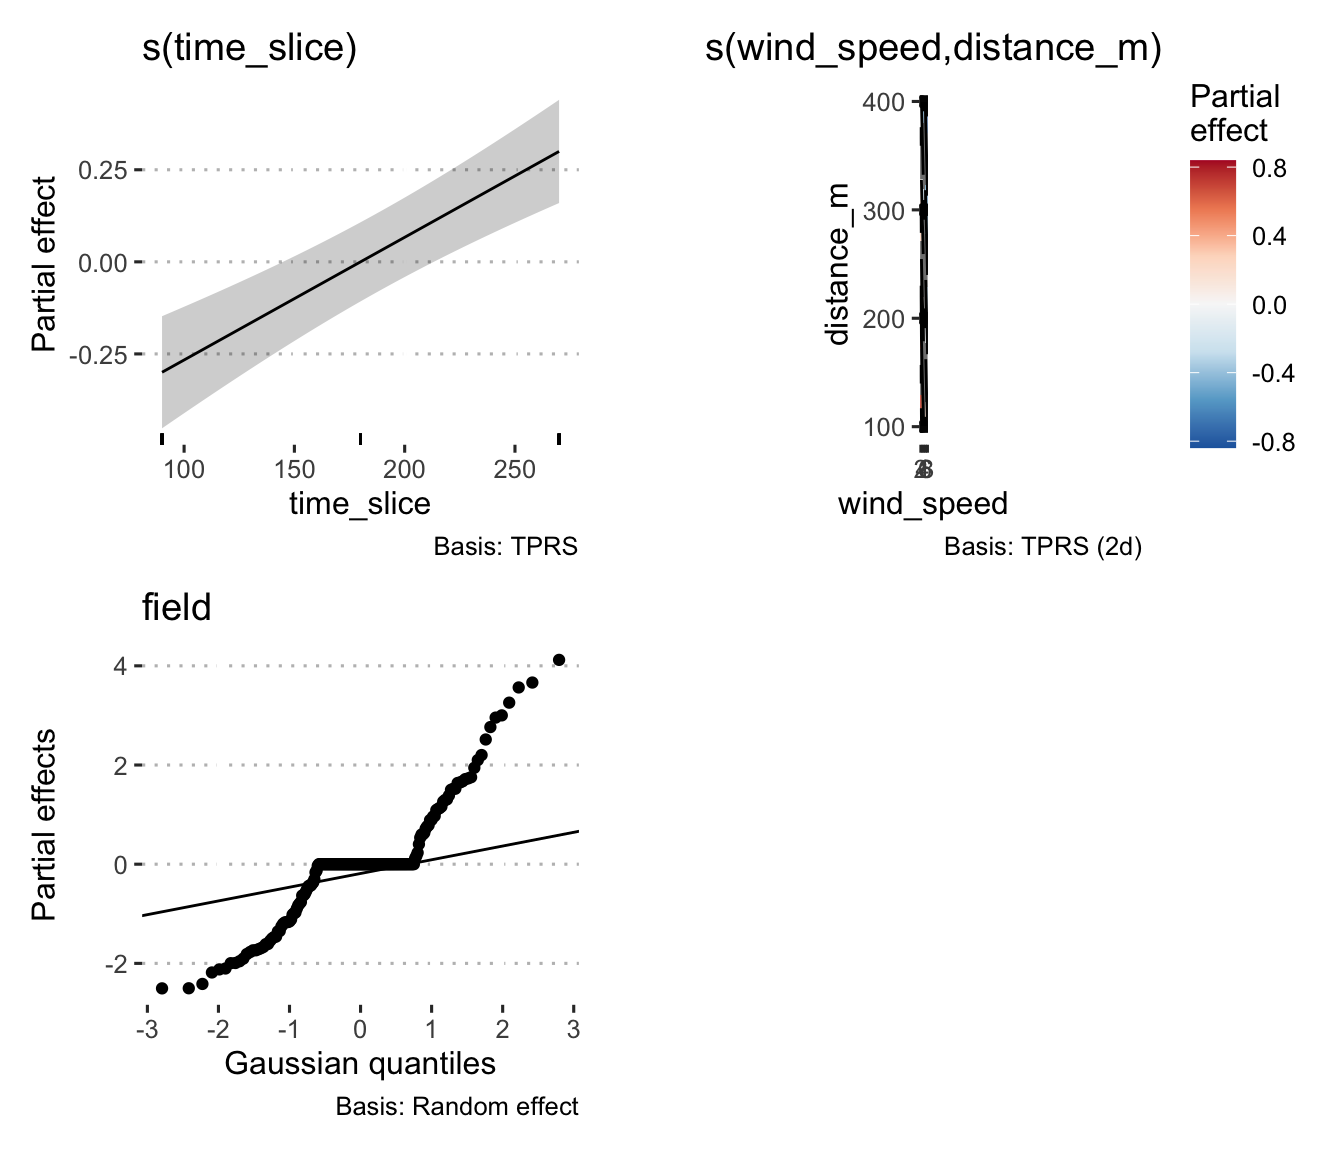
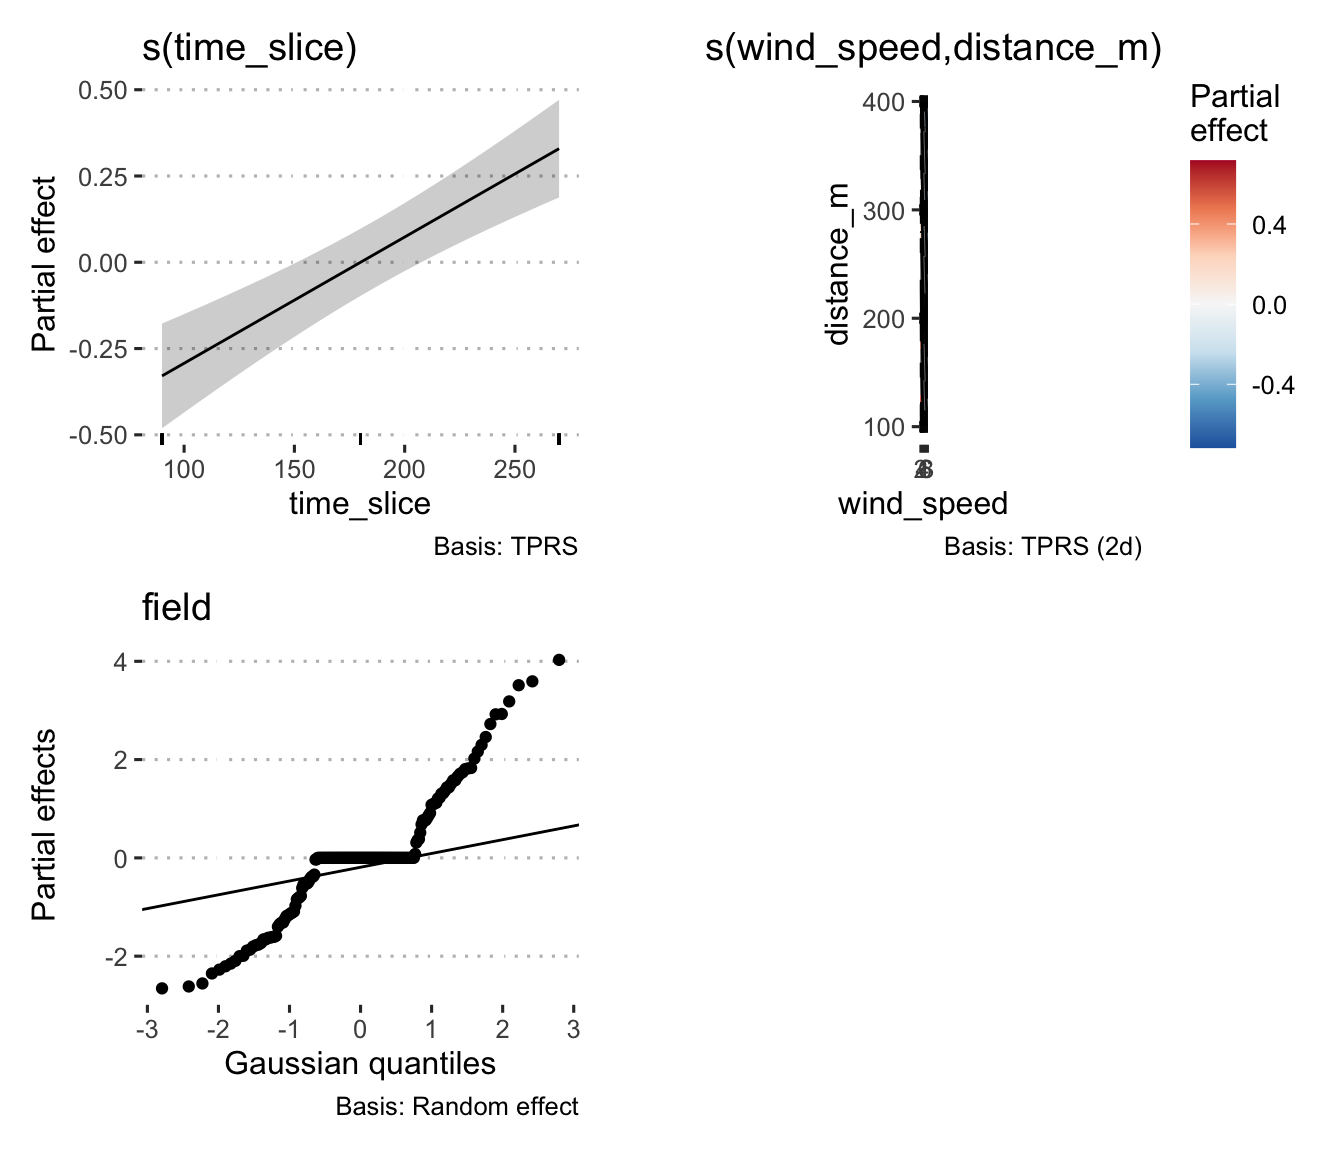
Refit model using count and nb()

diff --git a/gam_model.html b/gam_model.html
@@ -438,9 +438,10 @@ recorded in spore type proportion at 100 m to 400 m downwind (P =
          degree_dif,
          wind_degrees,
          wind_speed,
-         distance_m) %&gt;%
+         distance_m,
+         n_spore) %&gt;%
   print(n = Inf)</code></pre>
-<pre><code>## # A tibble: 24 × 7
+<pre><code>## # A tibble: 24 × 8
 ## # Groups:   field [6]
 ##    field trap_coord trap_degrees degree_dif wind_degrees wind_speed distance_m
 ##    &lt;fct&gt; &lt;chr&gt;             &lt;dbl&gt;      &lt;dbl&gt;        &lt;dbl&gt;      &lt;dbl&gt;      &lt;dbl&gt;
@@ -467,93 +468,110 @@ recorded in spore type proportion at 100 m to 400 m downwind (P =
 ## 21 6     N                     0     -2.16          2.16       7.57        100
 ## 22 6     E                    90     87.8           2.16       7.57        100
 ## 23 6     W                   270    268.            2.16       7.57        100
-## 24 6     S                   180    178.            2.16       7.57        100</code></pre>
+## 24 6     S                   180    178.            2.16       7.57        100
+## # ℹ 1 more variable: n_spore &lt;dbl&gt;</code></pre>
 <p>Based on the use of AIC to evaluate model fit to the data, the
-following model best fit the data with the smoothed time slice
-variables, <code>time_slice</code>; the wind direction in relation to
-the traps’ placement around the field in terms of degrees, <em>i.e.</em>
-0–360˚, <code>degree_dif</code>; the traps’ distance from the harvest
-field in meters, <code>distance_m</code>; and the field and traps
-themselves as a smoothed term random effect, <code>field</code> and
-<code>xy</code>.</p>
-<pre class="r"><code>mod_dat$xy &lt;- as.factor(paste(mod_dat$x, mod_dat$y))
-
-# create predictor degree diff as per Ben Bolker for circular predictors,
-# https://fediscience.org/@bbolker/110856805100981742, see Appendix for screenshot
-mod_dat$degree_dif_sin &lt;- sin(2 * pi * mod_dat$degree_dif / 360)
+following GAM best fit the data with the smoothed time slice variables,
+s(<code>time_slice</code>); a smoothed term for both wind-speed and the
+traps’ distance from the harvest field in meters,
+s(<code>wind_speed, distance_m</code>); and the field and traps
+themselves as a smoothed term random effect, s(<code>field</code>,
+<code>xy</code>) using a negative binomial family.</p>
+<pre class="r"><code># create a factor for the trap locations in Cartesian coords to be used as a random effect
+mod_dat$xy &lt;- as.factor(paste(mod_dat$x, mod_dat$y))
 
 m1 &lt;- gam(
-  spore_cm2 ~ s(time_slice, k = 3) +
+  n_spore ~ s(time_slice, k = 3) +
     s(wind_speed, distance_m, k = 72) +
     s(field, xy, bs = &quot;re&quot;),
   data = mod_dat,
   select = TRUE,
   method = &quot;REML&quot;,
-  family = &quot;tw&quot;
+  family = nb()
 )</code></pre>
 </div>
 <div id="inspect-model-m1" class="section level3">
 <h3>Inspect Model m1</h3>
 <pre class="r"><code>m1</code></pre>
 <pre><code>## 
-## Family: Tweedie(p=1.499) 
+## Family: Negative Binomial(2.483) 
 ## Link function: log 
 ## 
 ## Formula:
-## spore_cm2 ~ s(time_slice, k = 3) + s(wind_speed, distance_m, 
-##     k = 72) + s(field, xy, bs = &quot;re&quot;)
+## n_spore ~ s(time_slice, k = 3) + s(wind_speed, distance_m, k = 72) + 
+##     s(field, xy, bs = &quot;re&quot;)
 ## 
 ## Estimated degrees of freedom:
-##  0.972  1.544 85.331  total = 88.85 
+##  0.974  1.468 87.081  total = 90.52 
 ## 
-## REML score: 695.8308</code></pre>
+## REML score: 1073.899</code></pre>
 <div id="check-model-m1" class="section level4">
 <h4>Check model m1</h4>
 <pre class="r"><code>gam.check(m1)</code></pre>
 <p><img src="gam_model_files/figure-html/gam-check-m1-1.png" width="60%" /></p>
 <pre><code>## 
 ## Method: REML   Optimizer: outer newton
-## full convergence after 11 iterations.
-## Gradient range [-0.0002707626,0.000250362]
-## (score 695.8308 &amp; scale 0.9423005).
-## Hessian positive definite, eigenvalue range [0.00001926539,221.3536].
+## full convergence after 8 iterations.
+## Gradient range [-0.0003730279,0.00033249]
+## (score 1073.899 &amp; scale 1).
+## Hessian positive definite, eigenvalue range [0.0002110551,53.47214].
 ## Model rank =  266 / 266 
 ## 
 ## Basis dimension (k) checking results. Low p-value (k-index&lt;1) may
 ## indicate that k is too low, especially if edf is close to k&#39;.
 ## 
 ##                               k&#39;     edf k-index p-value
-## s(time_slice)              2.000   0.972    0.92    0.35
-## s(wind_speed,distance_m)  71.000   1.544    1.01    0.95
-## s(field,xy)              192.000  85.331      NA      NA</code></pre>
+## s(time_slice)              2.000   0.974    0.96    0.51
+## s(wind_speed,distance_m)  71.000   1.468    1.01    0.91
+## s(field,xy)              192.000  87.081      NA      NA</code></pre>
 <pre class="r"><code>summary(m1)</code></pre>
 <pre><code>## 
-## Family: Tweedie(p=1.499) 
+## Family: Negative Binomial(2.483) 
 ## Link function: log 
 ## 
 ## Formula:
-## spore_cm2 ~ s(time_slice, k = 3) + s(wind_speed, distance_m, 
-##     k = 72) + s(field, xy, bs = &quot;re&quot;)
+## n_spore ~ s(time_slice, k = 3) + s(wind_speed, distance_m, k = 72) + 
+##     s(field, xy, bs = &quot;re&quot;)
 ## 
 ## Parametric coefficients:
-##             Estimate Std. Error t value Pr(&gt;|t|)    
-## (Intercept)   0.6847     0.1835   3.731 0.000249 ***
+##             Estimate Std. Error z value            Pr(&gt;|z|)    
+## (Intercept)   2.1867     0.1869    11.7 &lt;0.0000000000000002 ***
 ## ---
 ## Signif. codes:  0 &#39;***&#39; 0.001 &#39;**&#39; 0.01 &#39;*&#39; 0.05 &#39;.&#39; 0.1 &#39; &#39; 1
 ## 
 ## Approximate significance of smooth terms:
-##                              edf Ref.df     F              p-value    
-## s(time_slice)             0.9723      2 18.98 &lt; 0.0000000000000002 ***
-## s(wind_speed,distance_m)  1.5443     47 92.95              0.00585 ** 
-## s(field,xy)              85.3309     95 17.04 &lt; 0.0000000000000002 ***
+##                              edf Ref.df  Chi.sq             p-value    
+## s(time_slice)             0.9742      2   37.69 &lt;0.0000000000000002 ***
+## s(wind_speed,distance_m)  1.4684     57 1175.98              0.0214 *  
+## s(field,xy)              87.0809     95 1259.43 &lt;0.0000000000000002 ***
 ## ---
 ## Signif. codes:  0 &#39;***&#39; 0.001 &#39;**&#39; 0.01 &#39;*&#39; 0.05 &#39;.&#39; 0.1 &#39; &#39; 1
 ## 
-## R-sq.(adj) =  0.796   Deviance explained = 89.8%
-## -REML = 695.83  Scale est. = 0.9423    n = 288</code></pre>
-<pre class="r"><code>vis.gam(m1, theta = 50, ticktype = &quot;detailed&quot;)</code></pre>
+## R-sq.(adj) =  0.735   Deviance explained = 89.2%
+## -REML = 1073.9  Scale est. = 1         n = 288</code></pre>
+<pre class="r"><code>vis.gam(m1,
+        theta = 50,
+        ticktype = &quot;detailed&quot;,
+        main = &quot;Time slice and wind speed&quot;)</code></pre>
 <p><img src="gam_model_files/figure-html/gam-check-m1-2.png" width="60%" /></p>
-<p>The model fully converged after 11 iterations. All of the predictive
+<pre class="r"><code>vis.gam(
+  m1,
+  theta = 50,
+  view = c(&quot;wind_speed&quot;, &quot;distance_m&quot;),
+  ticktype = &quot;detailed&quot;,
+  main = &quot;Wind speed and distance from field&quot;
+)</code></pre>
+<p><img src="gam_model_files/figure-html/gam-check-m1-3.png" width="60%" /></p>
+<pre class="r"><code>vis.gam(
+  m1,
+  theta = 45,
+  phi = 45,
+  view = c(&quot;field&quot;, &quot;xy&quot;),
+  ticktype = &quot;detailed&quot;,
+  main = &quot;Random Effects&quot;
+)</code></pre>
+<p><img src="gam_model_files/figure-html/gam-check-m1-4.png" width="60%" /></p>
+<p>The model fully converged after 8 iterations. All of the predictive
 factors included were significant at <em>P</em> &gt; 0.05 and the
 smoothed predictors indicate a good fit with residuals being randomly
 distributed and enough basis functions for them to be properly fit. The
@@ -575,39 +593,33 @@ it’s best to check for any autocorrelation in the residuals.</p>
 PACF plots that show cause for concern.</p>
 </div>
 </div>
-<div id="summarise-and-visualise-model-m1" class="section level3">
-<h3>Summarise and visualise model m1</h3>
-<pre class="r"><code>draw(m1)</code></pre>
-<p><img src="gam_model_files/figure-html/appraise-m1-1.png" width="100%" /></p>
-</div>
 <div
 id="predict-spore-dispersal-and-visualise-spore-dispersal-predictions"
 class="section level3">
 <h3>Predict spore dispersal and visualise spore dispersal
 predictions</h3>
-<pre class="r"><code>dist &lt;- seq(0, 400, by = 100)
-
-# create x and y locations around centroid
-xy &lt;- expand_grid(dist, dist)
-xy &lt;- unite(data = xy, col = &quot;xy&quot;)
+<pre class="r"><code>dist &lt;- seq(100, 400, by = 100)
 
 newd &lt;- expand_grid(
-  time_slice = c(90, 180, 270),
-  distance_m = dist,
-  wind_speed = seq(from = 0, to = 30, by = 2),
-  x = dist,
-  y = dist,
-  xy = xy$xy,
+  time_slice = unique(mod_dat$time_slice),
+  distance_m = unique(mod_dat$distance_m),
+  wind_speed = seq(from = 0, to = 10, by = 0.5),
+  xy = unique(mod_dat$xy),
   field = 1
 )
-  
-newd$pred_spore_cm2 &lt;- predict(m1, newd)</code></pre>
-<p>Visualize the spore dispersal predictions for traps at 0 m, 100 m,
-200 m, 300 m, 400 m around the harvest field for sampling times at 90,
-180 and 270 minutes after harvest started.</p>
+
+newd$pred_spore_cm2 &lt;-
+  predict(
+    object = m1,
+    newd,
+    type = &quot;response&quot;,
+    exclude = c(&quot;field&quot;, &quot;xy&quot;)
+  )</code></pre>
+<p>Visualize the spore dispersal predictions for traps at 100 m, 200 m,
+300 m, 400 m around the harvest field for sampling times at 90, 180 and
+270 minutes after harvest started.</p>
 <pre class="r"><code>predictions &lt;-
   newd %&gt;%
-  mutate(pred_spore_cm2 = replace(pred_spore_cm2, pred_spore_cm2 &lt; 0, 0)) %&gt;%
   ggplot(aes(x = as.factor(distance_m), y = pred_spore_cm2)) +
   geom_boxplot() +
   labs(x = &quot;Distance from harvesting field (m)&quot;,
@@ -622,22 +634,6 @@ predictions</code></pre>
   h = 2,
   scale = 1.2
 )</code></pre>
-</div>
-</div>
-<div id="appendix" class="section level2">
-<h2>Appendix</h2>
-<p>Screenshot of Ben Bolker’s Toot on fedscience.org regarding
-constructing a linear model with compass directions as predictor
-variables and how to handle this in the model.</p>
-<div class="float">
-<img src="images/BBolker_Toot.png"
-alt="“At a quick skim this looks like it’s mostly about circular response variables. In case this hasn’t occurred to you already, I think the simplest thing will be to use sin(direction), cos(direction) as predictors … (or more precisely sin(2pidir/360) etc. if your directions are in degrees …)”" />
-<div class="figcaption">“At a quick skim this looks like it’s mostly
-about circular <em>response</em> variables. In case this hasn’t occurred
-to you already, I think the simplest thing will be to use
-sin(direction), cos(direction) as predictors … (or more precisely
-sin(2<em>pi</em>dir/360) etc. if your directions are in degrees
-…)”</div>
 </div>
 </div>
 
